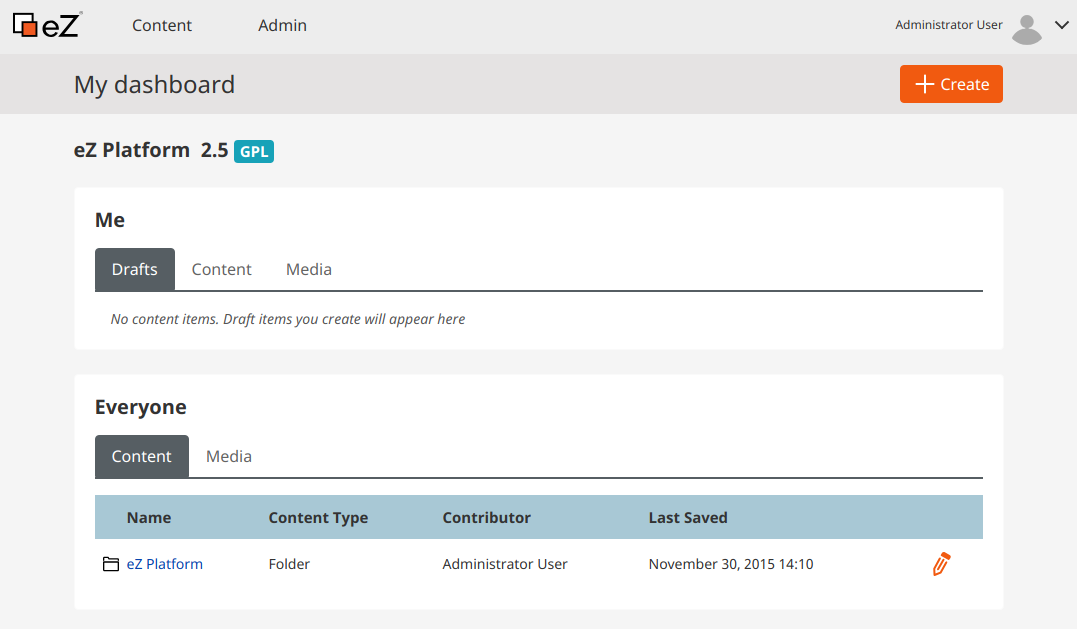
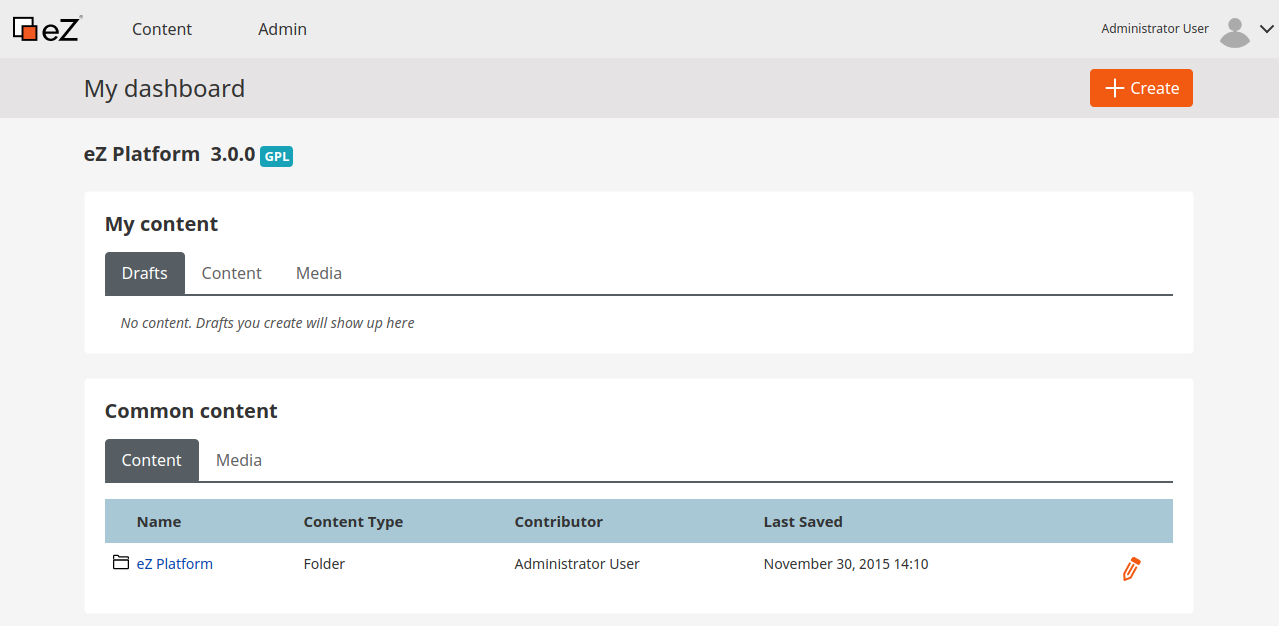
Updating Extending Admin UI tutorial to v3.0

diff --git a/docs/tutorials/extending_admin_ui/extending_admin_ui.md b/docs/tutorials/extending_admin_ui/extending_admin_ui.md
@@ -8,6 +8,7 @@ You will learn to extend a few points of the Back Office:
 
 - Add a tab in the Dashboard listing all Articles
 - Add a menu item that lists all Content items filtered by Content Type
+- Add an Edit button that allows you to edit Content items from the content list
 - Add a custom tag to the Online Editor for creating note boxes
 
 To follow this tutorial you need to:
@@ -22,5 +23,6 @@ In this tutorial you will go through the following steps:
 
 - [1. Creating a Dashboard tab](1_creating_a_dashboard_tab.md)
 - [2. Creating a content list](2_creating_a_content_list.md)
-- [3. Filtering the content list](3_filtering_the_content_list.md)
+- [3a. Filtering the content list](3_filtering_the_content_list.md)
+- [3b. Adding Edit button to content list](3b_adding_edit_button_content_list.md)
 - [4. Creating a custom tag](4_adding_a_custom_tag.md)

diff --git a/docs/tutorials/extending_admin_ui/4_adding_a_custom_tag.md b/docs/tutorials/extending_admin_ui/4_adding_a_custom_tag.md
@@ -3,9 +3,9 @@
 eZ Platform's RichText Field contains some built-in elements you can use, such as an image or a table.
 You can also add custom tags that will enable you to add additional elements to RichText Fields.
 
-In this step you will add a custom tag which will enable you to create a special note box called a Factbox.
+In this step you will add a custom tag, which will enable you to create a special note box called a Factbox.
 
-See full documentation of custom tags in [Extending the Online Editor](../../extending/extending_online_editor#custom-tags).
+See full documentation of custom tags in [Extending the Online Editor](../../extending/extending_online_editor.md#custom-tags).
 
 ## Configure the custom tag
 

diff --git a/docs/tutorials/extending_admin_ui/3b_adding_edit_button_content_list.md b/docs/tutorials/extending_admin_ui/3b_adding_edit_button_content_list.md
@@ -194,7 +194,7 @@ Finally, add a JavaScript block with js listeners at the end of the twig file:
                 <tbody>
                 {% for article in articles %}
                     <tr>
-                        <td><a href={{ez_path(content)}}>{{ ez_content_name(article.contentInfo) }}</a></td>
+                        <td><a href={{ez_path(article)}}>{{ ez_content_name(article.contentInfo) }}</a></td>
                         <td>{{ article.contentInfo.contentTypeId }}</td>
                         <td>{{ article.contentInfo.modificationDate|ez_full_datetime }}</td>
                         <td>{{ article.contentInfo.publishedDate|ez_full_datetime }}</td>

diff --git a/docs/tutorials/extending_admin_ui/3_filtering_the_content_list.md b/docs/tutorials/extending_admin_ui/3_filtering_the_content_list.md
@@ -186,7 +186,7 @@ inside `<section class="container my-4">`:
                 <tbody>
                 {% for article in articles %}
                     <tr>
-                        <td><a href={{ez_path(content)}}>{{ ez_content_name(article.contentInfo) }}</a></td>
+                        <td><a href={{ez_path(article)}}>{{ ez_content_name(article.contentInfo) }}</a></td>
                         <td>{{ article.contentInfo.contentTypeId }}</td>
                         <td>{{ article.contentInfo.modificationDate|ez_full_datetime }}</td>
                         <td>{{ article.contentInfo.publishedDate|ez_full_datetime }}</td>

diff --git a/docs/tutorials/extending_admin_ui/2_creating_a_content_list.md b/docs/tutorials/extending_admin_ui/2_creating_a_content_list.md
@@ -158,7 +158,7 @@ Finally, create an `all_content_list.html.twig` file in `templates/list`:
             <tbody>
             {% for article in articles %}
                 <tr>
-                    <td><a href={{ez_path(content)}}>{{ ez_content_name(article.contentInfo) }}</a></td>
+                    <td><a href={{ez_path(article)}}>{{ ez_content_name(article.contentInfo) }}</a></td>
                     <td>{{ article.contentInfo.contentTypeId }}</td>
                     <td>{{ article.contentInfo.modificationDate|ez_full_datetime }}</td>
                     <td>{{ article.contentInfo.publishedDate|ez_full_datetime }}</td>

diff --git a/docs/tutorials/extending_admin_ui/1_creating_a_dashboard_tab.md b/docs/tutorials/extending_admin_ui/1_creating_a_dashboard_tab.md
@@ -2,8 +2,7 @@
 
 The Dashboard is the front page that you visit after logging in to the Back Office.
 You can also get to it from any other page by selecting the site logo in the top left corner.
-By default, the Dashboard contains two blocks: "My content" and "Common content", which list Content items and Media.
-The "Me" block additionally lists the current user's drafts.
+By default, the Dashboard contains following blocks: "My content" and "Common content", which list Content items and Media.
 
 ![Unmodified dashboard](img/dashboard.png)
 
